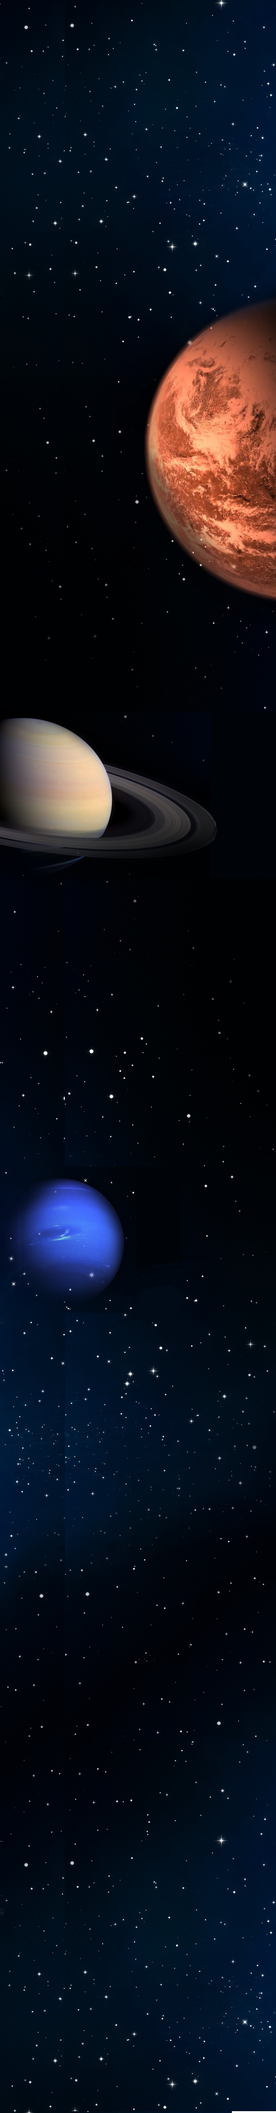
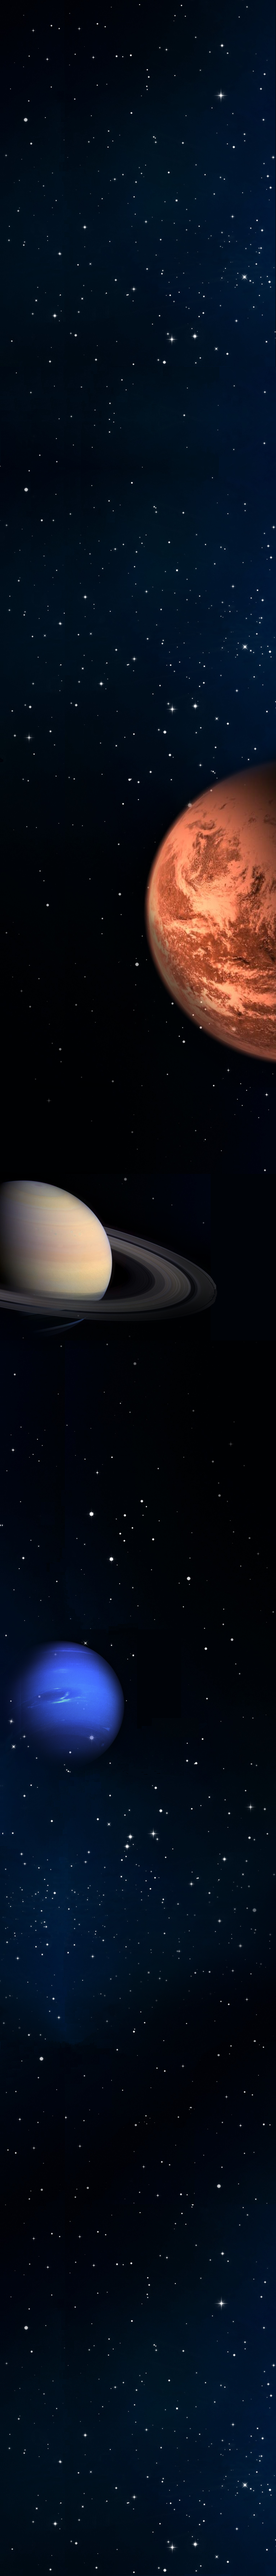
Added change background speed ability on game started/over

diff --git a/app/backgroundview.cpp b/app/backgroundview.cpp
@@ -1,27 +1,30 @@
 #include "backgroundview.hpp"
 #include "definitions.hpp"
 #include "imagestorage.hpp"
+#include <QGraphicsEffect>
 
 BackgroundView::BackgroundView(QWidget* displayWidget)
     : AnimationPlaneView(displayWidget),
-      m_backgroundAnimTimeDelay(def::defaultBackgroundAnimTimeDelay),
       m_backgroundAnimTimer(),
       m_backgroundGraphics(),
-      m_backgroundGraphicsPosOffset(0)
+      m_backgroundGraphicsPosOffset(0),
+      m_backgroundLabelWindow(displayWidget)
 {
-    QImage* backgroundImage = g_imageStorage->getImage("background");
-    QPixmap backgroundPixmap;
-    backgroundPixmap.convertFromImage(*backgroundImage);
-    m_backgroundGraphics.setPixmap(backgroundPixmap);
-    m_backgroundGraphics.setPos(0, 0 - m_backgroundGraphics.pixmap().height() + def::sceneHeight);
+    this->setBackgroundBrush(QBrush(Qt::transparent));
+    m_scene.setBackgroundBrush(QBrush(Qt::transparent));
 
-    this->setBackgroundBrush(QBrush(Qt::black));
-    m_scene.setBackgroundBrush(QBrush(Qt::black));
-    m_scene.addItem(dynamic_cast<QGraphicsItem*>(&m_backgroundGraphics));
+    QImage* backgroundImage = g_imageStorage->getImage("background");
+    m_backgroundGraphics.convertFromImage(*backgroundImage);
+    m_backgroundLabelWindow.setGeometry(1,
+                                        1,
+                                        def::sceneWight,
+                                        def::sceneHeight);
+    m_backgroundLabelWindow.stackUnder(dynamic_cast<QWidget*>(&m_scene));
+    m_backgroundLabelWindow.show();
 
     connect(&m_backgroundAnimTimer, SIGNAL(timeout()),
             this, SLOT(backgroundAnimation()));
-    m_backgroundAnimTimer.setInterval(m_backgroundAnimTimeDelay);
+    m_backgroundAnimTimer.setInterval(def::defaultBackgroundAnimTimeDelay);
     m_backgroundAnimTimer.start();
 }
 
@@ -30,27 +33,50 @@ BackgroundView::~BackgroundView()
 
 }
 
+void BackgroundView::setGraphicsEffects(qreal opacity, qreal blurRadius)
+{
+    GraphicsView::setGraphicsEffects(opacity, blurRadius);
+
+    QGraphicsOpacityEffect* opacityEffect = new QGraphicsOpacityEffect();
+    opacityEffect->setOpacity(opacity);
+    m_backgroundLabelWindow.setGraphicsEffect(opacityEffect);
+    QGraphicsBlurEffect* blurEffect = new QGraphicsBlurEffect();
+    blurEffect->setBlurRadius(blurRadius);
+    m_backgroundLabelWindow.setGraphicsEffect(blurEffect);
+}
+
 void BackgroundView::activate()
 {
-//    AnimationPlaneView::activate();
+    startAllItems();
     m_backgroundAnimTimer.start();
+    setGraphicsEffects(0, 0);
 }
 
 void BackgroundView::deactivate()
 {
-//    AnimationPlaneView::deactivate();
+    stopAllItems();
     m_backgroundAnimTimer.stop();
+    setGraphicsEffects(0.6, 6);
+}
+
+void BackgroundView::setBackgroundTimeDelay(int delay)
+{
+    m_backgroundAnimTimer.setInterval(delay);
 }
 
 void BackgroundView::backgroundAnimation()
 {
-    int endBackgroundGraphicsPositionY = m_backgroundGraphics.pixmap().height() - def::sceneHeight;
-    if(endBackgroundGraphicsPositionY <= m_backgroundGraphicsPosOffset)
+    int endBackgroundPositionOffsetValue = m_backgroundGraphics.height() - def::sceneHeight;
+    if(endBackgroundPositionOffsetValue < m_backgroundGraphicsPosOffset)
     {
         m_backgroundGraphicsPosOffset = 0;
     }
 
-    int startBackgroundGraphicsPositionY = 0 - m_backgroundGraphics.pixmap().height() + def::sceneHeight;
-    m_backgroundGraphics.setPos(0, startBackgroundGraphicsPositionY + m_backgroundGraphicsPosOffset);
+    int startBackgroundGraphicsPositionY = m_backgroundGraphics.height() - def::sceneHeight;
+    m_backgroundLabelWindow.setPixmap(
+                m_backgroundGraphics.copy(0,
+                startBackgroundGraphicsPositionY - m_backgroundGraphicsPosOffset,
+                def::sceneWight,
+                def::sceneHeight));
     m_backgroundGraphicsPosOffset++;
 }

diff --git a/app/main.cpp b/app/main.cpp
@@ -75,6 +75,8 @@ int main(int argc, char *argv[])
                      &playerController,     SLOT(create()));
     QObject::connect(&menuController,       SIGNAL(gameStarted()),
                      &enemyController,      SLOT(startSpawning()));
+    QObject::connect(&menuController,       SIGNAL(gameStarted()),
+                     &backgroundController, SLOT(increaseBackgroundSpeed()));
     QObject::connect(&menuController,       SIGNAL(gamePaused()),   //Game paused
                      &healthController,     SLOT(hide()));
     QObject::connect(&menuController,       SIGNAL(gamePaused()),
@@ -104,7 +106,7 @@ int main(int argc, char *argv[])
     QObject::connect(&menuController,       SIGNAL(gameAborted()),
                      &enemyController,      SLOT(stopSpawning()));
     QObject::connect(&menuController,       SIGNAL(gameAborted()),
-                     &backgroundController, SLOT(activate()));
+                     &backgroundController, SLOT(resetToDefault()));
     QObject::connect(&menuController,       SIGNAL(gameOver()),     //Game over
                      &healthController,     SLOT(destroy()));
     QObject::connect(&menuController,       SIGNAL(gameOver()),
@@ -115,6 +117,8 @@ int main(int argc, char *argv[])
                      &enemyController,      SLOT(stopSpawning()));
     QObject::connect(&menuController,       SIGNAL(gameOver()),
                      &playerController,     SLOT(destroy()));
+    QObject::connect(&menuController,       SIGNAL(gameOver()),
+                     &backgroundController, SLOT(decreaseBackgroundSpeed()));
     QObject::connect(&scoreController,      SIGNAL(totalScore(int)),                //Total score
                      &menuController,       SLOT(updateScore(int)));
     QObject::connect(&enemyController,      SIGNAL(enemyDestroyed(QPointF, int)),   //Spawn rewards

diff --git a/app/backgroundview.hpp b/app/backgroundview.hpp
@@ -2,6 +2,7 @@
 #define BACKGROUNDVIEW_HPP
 
 #include "animationplaneview.hpp"
+#include <QLabel>
 #include <QPixmap>
 #include <QTimer>
 #include <QWidget>
@@ -12,17 +13,19 @@ class BackgroundView : public AnimationPlaneView
 public:
     BackgroundView(QWidget* displayWidget);
     virtual ~BackgroundView();
-    void activate() override;
+    void setGraphicsEffects(qreal opacity, qreal blurRadius) override;
+    void activate()   override;
     void deactivate() override;
+    void setBackgroundTimeDelay(int delay);
 
 private slots:
     void backgroundAnimation();
 
 private:
-    int                 m_backgroundAnimTimeDelay;
-    QTimer              m_backgroundAnimTimer;
-    QGraphicsPixmapItem m_backgroundGraphics;
-    int                 m_backgroundGraphicsPosOffset;
+    QTimer  m_backgroundAnimTimer;
+    QPixmap m_backgroundGraphics;
+    int     m_backgroundGraphicsPosOffset;
+    QLabel  m_backgroundLabelWindow;
 };
 
 #endif // BACKGROUNDVIEW_HPP

diff --git a/app/backgroundcontroller.cpp b/app/backgroundcontroller.cpp
@@ -24,14 +24,30 @@ BackgroundController::~BackgroundController()
 
 void BackgroundController::activate()
 {
-    m_view.startAllItems();
+    m_view.activate();
     m_itemsSpawnTimer.start();
 }
 
 void BackgroundController::deactivate()
 {
-    m_view.stopAllItems();
+    m_view.deactivate();
     m_itemsSpawnTimer.stop();
+}
+
+void BackgroundController::increaseBackgroundSpeed()
+{
+    m_view.setBackgroundTimeDelay(def::shortBackgroundAnimTimeDelay);
+}
+
+void BackgroundController::decreaseBackgroundSpeed()
+{
+    m_view.setBackgroundTimeDelay(def::defaultBackgroundAnimTimeDelay);
+}
+
+void BackgroundController::resetToDefault()
+{
+    m_view.activate();
+    m_view.setBackgroundTimeDelay(def::defaultBackgroundAnimTimeDelay);
 }
 
 void BackgroundController::spawnItem()

diff --git a/app/definitions.hpp b/app/definitions.hpp
@@ -14,7 +14,8 @@ namespace def
     const int    animationBigFrameHeight         = 30;
     const int    collisionDamageFactor           = 300;
     const int    defaultBulletSpeed              = 20;
-    const int    defaultBackgroundAnimTimeDelay  = 20;
+    const int    shortBackgroundAnimTimeDelay    = 5;
+    const int    defaultBackgroundAnimTimeDelay  = 10;
     const int    healthRewardValue               = 100;
     const int    maxAnimationFrames              = 10;
     const int    maxAnimationFrameIdx            = 9;

diff --git a/app/animationplaneview.hpp b/app/animationplaneview.hpp
@@ -12,10 +12,10 @@ public:
     AnimationPlaneView(QWidget* displayWidget);
     virtual ~AnimationPlaneView();
     virtual void startAllItems() override;
-    virtual void stopAllItems() override;
+    virtual void stopAllItems()  override;
 
 public slots:
-    void activate() override;
+    void activate()   override;
     void deactivate() override;
     void addEffectToScene(AnimationEffectModel* object);
 };

diff --git a/app/backgroundcontroller.hpp b/app/backgroundcontroller.hpp
@@ -15,12 +15,12 @@ public:
     BackgroundController(QWidget* displayWidget);
     virtual ~BackgroundController();
 
-signals:
-    void addEffectToScene(AnimationEffectModel* effect);
-
 public slots:
     void activate();
     void deactivate();
+    void increaseBackgroundSpeed();
+    void decreaseBackgroundSpeed();
+    void resetToDefault();
 
 private slots:
     void spawnItem();

diff --git a/app/graphicsview.hpp b/app/graphicsview.hpp
@@ -10,7 +10,7 @@ class GraphicsView : public QGraphicsView
 public:
     GraphicsView(QWidget* displayWidget);
     virtual ~GraphicsView();
-    void setGraphicsEffects(qreal opacity, qreal blurRadius);
+    virtual void setGraphicsEffects(qreal opacity, qreal blurRadius);
     virtual void startAllItems() = 0;
     virtual void stopAllItems() = 0;
 
